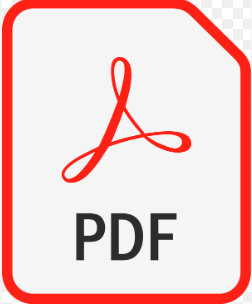
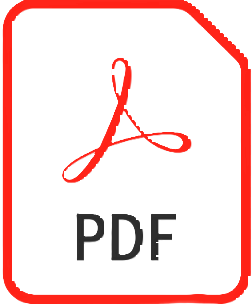
styleform

diff --git a/src/styles/App.scss b/src/styles/App.scss
@@ -57,6 +57,7 @@ body {
         display: flex;
         text-align: center;
         justify-content: center;
+        padding: 8px;
       }
     }
   }
@@ -87,6 +88,7 @@ body {
           font-size: 12px;
           flex-direction: column;
           text-align: center;
+          align-items: center;
           // background-color: black;
         }
         .profileText {
@@ -96,6 +98,11 @@ body {
 
         .imgProfile {
           width: 250px;
+          @media all and (max-width: 768px) {
+            width: 200px;
+            
+          }
+          
         }
       }
       .landingSection {
@@ -130,12 +137,15 @@ body {
         @media all and (max-width: 768px) {
           font-size: 12px;
           padding: 10px;
+          background-color: rgb(15, 139, 122, 0.7);
         }
         .mycv {
           color: black;
           margin-inline: 2rem;
+          
           .cv {
             text-decoration: none;
+            padding: 5px;
           }
         }
         .firstText {
@@ -154,15 +164,7 @@ body {
             padding: 0px;
           }
         }
-        // .secondText{
-        //   border: 1px solid black;
-        //   // background-color: rgb(25, 196, 196);
-        //   background-color: rgb(15, 139, 122);
-        //   color: black;
-        //   padding: 10px;
-        //   margin-block: 2rem;
-        //   margin-inline: 2rem;
-        // }
+     
         .thirdText {
           // border: 1px solid black;
           // background-color: rgb(25, 196, 196);
@@ -171,6 +173,11 @@ body {
           padding: 10px;
           margin-block: 2rem;
           margin-inline: 2rem;
+          @media all and (max-width: 768px) {
+            margin-inline: 0.6rem;
+            
+
+          }
           .iconsTech {
             display: flex;
             margin: 10px;
@@ -282,8 +289,9 @@ body {
         // border: 2px solid black;
         margin: 20px auto;
         padding: 10px;
-        background-color: rgba(255, 255, 255, 0.7);
+        // background-color: rgba(255, 255, 255, 0.7);
         display: flex;
+        
 
         @media all and (max-width: 768px) {
           font-size: 12px;
@@ -303,6 +311,8 @@ body {
           padding: 10px;
           justify-content: space-around;
           // border: 1px solid black;
+          // background-color: black;
+         
           @media all and (max-width: 768px) {
             margin: 1rem;
             gap: 5px;
@@ -313,10 +323,16 @@ body {
           .contactDetails {
             color: black;
             padding: 5px;
+            color: white;
+            .cv {
+              padding-inline-start: 10px;
+            }
 
             a {
               text-decoration: none;
               color: black;
+              color: white;
+              // font-size: small;
             }
           }
         }
@@ -386,11 +402,14 @@ body {
             border-radius: 15px;
             padding: 5px;
             font-size: 10px;
+            font-family: lemon;
+            
             &:hover {
               background-color: rgb(36, 35, 35);
             }
             @media all and (min-width: 768px) {
-              font-size: 14px;
+              font-size: 12px;
+              padding-inline: 6px;
             }
           }
         }

diff --git a/src/components/Contact.jsx b/src/components/Contact.jsx
@@ -1,5 +1,5 @@
 // import React from 'react'
-import pdfImg from "../images/pdfImg.png";
+import pdfImg from "../images/pdfImg2.png";
 function Contact() {
   return (
     <>
@@ -32,8 +32,8 @@ function Contact() {
               <i className="fas fa-mobile-alt"></i> PHONE NUMBER
             </a>
           </p>
-          <p className="contactDetails">CV
-              <a href="https://drive.google.com/file/d/1epNTCUDMVFhkov_uaZUdiuFe59Hm9Mh1/view?usp=drive_link" target="_blank" rel="noopener noreferrer" download="Virginia_AlvarezP_cv.pdf"> <img src={pdfImg} width="20px" alt="cv" /></a>
+          <p className="contactDetails">CV <i className="fa-solid fa-arrow-right"></i>
+              <a className="cv" href="https://drive.google.com/file/d/1epNTCUDMVFhkov_uaZUdiuFe59Hm9Mh1/view?usp=drive_link" target="_blank" rel="noopener noreferrer" download="Virginia_AlvarezP_cv.pdf"> <img src={pdfImg} width="20px" alt="cv" /></a>
             </p>
         </section>
         <section className="formSection">
@@ -43,15 +43,15 @@ function Contact() {
         <form action="https://formsubmit.co/virginia.alvarez82@gmail.com" method="POST" className="form" > 
         
           {/* <label htmlFor="name" >Nombre</label> */}
-          <input className="input" type="text" name="name" placeholder="Nombre"/>
+          <input className="input" type="text" name="name" placeholder="Name"/>
 
           {/* <label htmlFor="email">Correo electrónico</label> */}
           <input className="input"  type="email" name="email" placeholder="Email"/>
 
           {/* <label htmlFor="message">Mensaje</label> */}
-          <textarea className="textarea" name="message" id="" cols="15" rows="5" placeholder="Escribe aquí tu mensaje"></textarea>
+          <textarea className="textarea" name="message" id="" cols="15" rows="5" placeholder="Write your message here"></textarea>
 
-          <input className="btnSubmit" type="submit" value={"enviar"} />
+          <input className="btnSubmit" type="submit" value={"send"} />
 
           <input type="hidden" name="_next" value="https://virchaca.github.io/portfolio/#/contactme"/>
           <input type="hidden" name="_captcha" value="false" />

diff --git a/src/components/Aboutme.jsx b/src/components/Aboutme.jsx
@@ -38,7 +38,7 @@ function Aboutme() {
           <div style={textStyle}>
             <div className="mycv">
               <p>
-                My CV
+                My CV <i className="fa-solid fa-arrow-right"></i>
                 <a
                   className="cv"
                   href="https://drive.google.com/file/d/1epNTCUDMVFhkov_uaZUdiuFe59Hm9Mh1/view?usp=drive_link"
